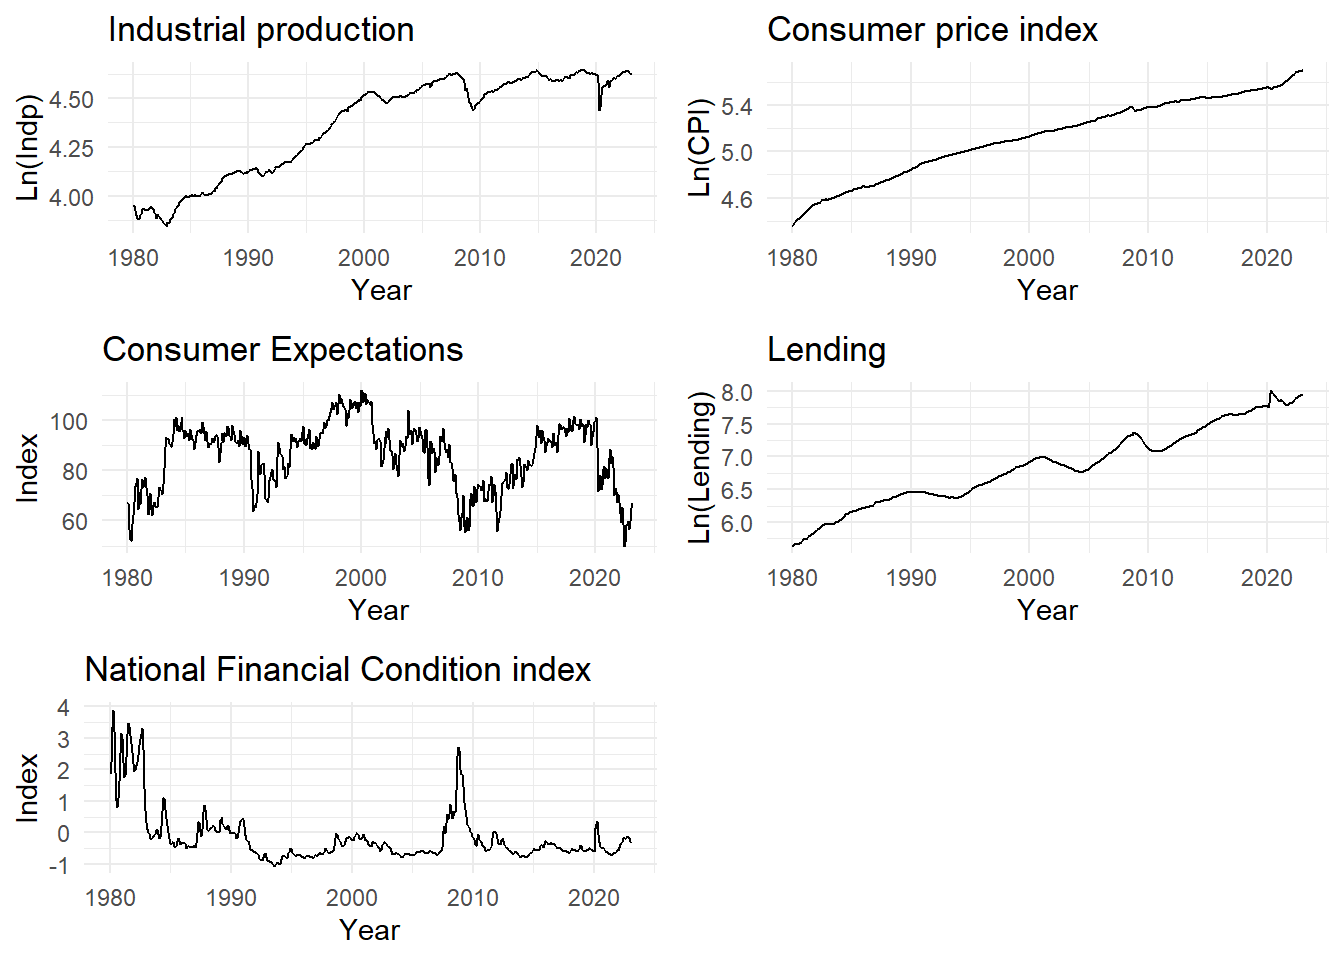
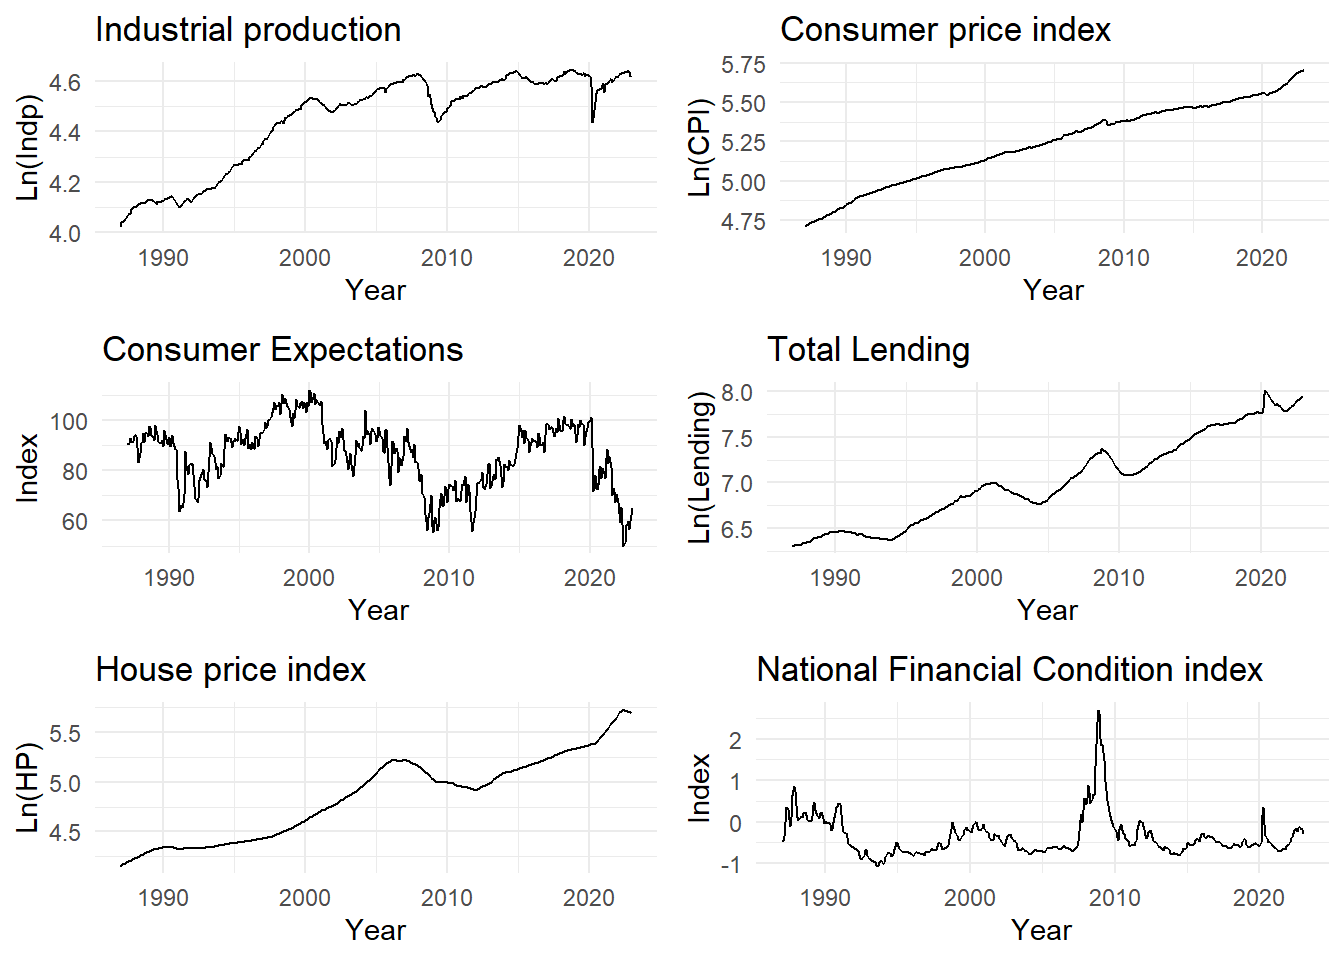
updates
Submission for ASS.1

diff --git a/docs/index.html b/docs/index.html
@@ -130,72 +130,79 @@ ul.task-list li input[type="checkbox"] {
 </blockquote>
 <section id="research-question-motivation" class="level2">
 <h2 class="anchored" data-anchor-id="research-question-motivation">Research question &amp; Motivation</h2>
-<p>As the financial crises emerged in 2008, the world economy realized just how much financial conditions affects the real economy. This research project intends to quantify the effects of a tightening of financial conditions on the real economy.</p>
-<p>The objective question to be answered can thus be summarized as follows; Does a tightening of financial conditions have the anticipated effects on the real economy, and if so, what are the magnitudes reasonable.</p>
+<p>As the financial crises emerged in 2008, the world economy realized just how much financial conditions affected the real economy. This research project intends to quantify the effects of a tightening of financial conditions on the real economy.</p>
+<p>The objective question to be answered can thus be summarized as follows; Does a tightening of financial conditions have the anticipated effects on the real economy, and if so, what are the magnitudes.</p>
 <p><strong>What motivates this?</strong></p>
-<p>It is or rather has been a standard part of macroeconomic modelling to exclude the financial sector from applied theoretical modelling. This has been a popular choice of researchers, who has argued that there is no or at least negligible relationship between financial and real variables. Nevertheless, financial crisis are often followed by significant drops in consumption and production, which might be a result of lower consumer sentiment, affecting the overall demand for goods as well as savings. It is therefore of importance for various policy makers to apply these insight when forming the economic policy as tighter monetary and/or macroprudential stances might have some undesired outcomes.</p>
-<p>Furthermore, the research question is highly applicable in today’s economic climate as central banks has started raising rates world wide, the financial condition index enables us to get a complete view of the affects that this might have by looking at financial markets, credit and liquidity while including the shadow banking system. The analysis is somewhat inspired by Pedersen and Roager (2019), who finds that easing financial conditions had a positive impact on the danish economy using quarterly data. In this paper monthly data is used in order to estimate the model on a higher frequency enabling policy makers to gain insights of the current state of the economy.</p>
+<p>It is, or rather has been a standard part of macroeconomic modelling to exclude the financial sector from applied theoretical modelling. This has been a popular choice of researchers, who have argued that there is no or at least a negligible relationship between financial and real variables. Nevertheless, financial crisis are often followed by significant drops in consumption and production, as evident from the figure of the respective series in the forthcoming section. This might be a result of lower consumer sentiment, which possibly through a wealth channel, affects the overall demand for goods as well as savings. Thus, getting a thorough understanding of the effect of financial conditions on the real economy is of importance for policy makers, who should take these insights into account when tightening the financial conditions through tighter monetary and/or macroprudential, as they might have some undesired outcomes.</p>
+<p>Furthermore, the research question is highly applicable in today’s economic climate. As central banks have started raising rates world wide, the financial condition index enables us to get a complete view of the affects that this might have by looking at financial markets, credit and liquidity while including the shadow banking system. The analysis is somewhat inspired by Pedersen and Roager (2019), who finds that easing financial conditions had a positive impact on the danish economy using quarterly data.</p>
 </section>
 <section id="data-and-its-properties" class="level2">
 <h2 class="anchored" data-anchor-id="data-and-its-properties">Data and its properties</h2>
-<p>As financial variables in general are fast moving compared to real economic variables, one obstacle was to find economic variables, which was able to mimic the effects on the real economy although on a higher frequency.</p>
-<p>The economic variables used for the empirical analysis are as follows:</p>
-<p>The economic activity is modeled by the <strong>industrial production</strong> which is an approximate variable mimicing the movements in Gross Domestic Product (GDP). Furthermore, as the United States are considered a closed economy, industrial production is considered sufficient.</p>
-<p>Additionally, the overall <strong>consumer price index</strong> has been introduced to the model as well, as financial conditions might affect the inflation through various expectations.</p>
-<p>In order to directly link the movements in the financial condition index and the real economy total <strong>lending</strong> from commercial banks is applied.</p>
-<p>As aforementioned, one could hypothesize that the effect which financial conditions has on the real economy was through consumer expectations. Therefore, the model includes <strong>consumer sentiment</strong> provided by University of Michigan.</p>
+<p>As mentioned in the prior section the results of the structural analysis should be of immediate use for economic policy makers, and thus a high frequency is of importance. The model will therefore be estimated using monthly data for the economy of the United States.</p>
+<p>The economic variables used for the empirical analysis are given by:</p>
+<p>The economic activity, and thus a measure of the real economy, is modeled by <strong>industrial production</strong> which is an approximate variable mimicking the movements in Gross Domestic Product (GDP). Industrial production is often used as a measure for real economic activity, and is in particular considered sufficient for economies with a large manufacturing sector.</p>
+<p>Additionally, the <strong>consumer price index (CPI)</strong> has been introduced to the model as well. The price level is included as financial conditions might affect the price level. Furthermore, given the mandates of the Federal Reserve (Fed), it is of importance getting an understanding of the relation between these variables.</p>
+<p>In order to directly link the movements in the financial condition index and the real economy, total <strong>lending</strong> from commercial banks is applied. This is due to the fact that as financial conditions are possibly tightened through monetary or financial regulatory authorities, it might become harder to obtain a loan for households as well as firms, which might impact the economic activity, as evident from the financial crisis in 2008.</p>
+<p>Additionally, as it is common to have a large amount of your wealth in real estate, S&amp;P U.S. National Home Price Index has been included. The behavior of the real estate prices might especially have an impact in consumer sentiment possibly through the aforementioned wealth channel, which could then affect the real economy through lower demand for goods or a higher demand for savings. The model therefore includes <strong>consumer sentiment</strong> provided by University of Michigan. The variables of consumer sentiment will be denoted consumer expectations throughout the analysis.</p>
 <p>Lastly, as we are interested in identifying a shock to financial conditions, the <strong>National Financial Condition Index (NFCI)</strong> is included. The index is constructed by the Federal Reserve, Chicago and is a measure of the conditions of finance, taking financial markets, credit and liquidity and the shadow banking system into account.</p>
-<p>The time series are retrieved using the database of Fred, Economic data provided by the Federal Reserve Bank og St.Louis, and is available on a monthly basis. The time period considered is from 01.01.1980 - 01.02.2023. The data is obtained using package <strong>fredr()</strong>.</p>
+<p>The time series are retrieved using Fred, the Economic database provided by the Federal Reserve Bank og St.Louis. The time period considered is from 01.01.1987 - 01.01.2023. The data is obtained using package <strong>fredr()</strong>.</p>
 <div class="cell">
 
 </div>
 <div class="cell">
 
 </div>
-<p><strong>Proterties of the data</strong></p>
-<p>The five time series are presented in the figure below All variables except the two indexes are transformed taking the logarithm.</p>
-<p>The industrial production, consumer price index and the overall lending seems to follow an upward trend, although significant event such as the great financial crisis of 2008 and the outbreak of Covid-19 have had significant impact on the short term movements. Looking closer at the to indices, they seem to be somewhat negatively correlated, indicating that the aforementioned hypothesis of NFCI affecting consumer expectations might be somewhat visually present. The variables seems to be I(1)-processes.</p>
+<p><strong>Preliminary data analysis</strong></p>
+<p>The six time series are presented in the figure below. All variables, except the two indexes, are transformed using the logarithm.</p>
+<p>The industrial production, consumer price index, the house price index and overall lending seems to follow an upward trend. Nevertheless, significant events such as the great financial crisis of 2008 and the outbreak of Covid-19 have had significant impact on the short term movements in the respective series. Looking closer at the two indices, they seem to be somewhat negatively correlated, indicating that the aforementioned hypothesis of NFCI affecting consumer sentiment might be somewhat visually present.</p>
 <div class="cell">
 <div class="cell-output-display">
 <p><img src="index_files/figure-html/showing plot-1.png" class="img-fluid" width="672"></p>
 </div>
 </div>
-<p>In order to statistically determine the stationarity of the variables the auto correlation functions and an Augmented Dicky Fuller test is conducted. Looking at the Autocorrelation functions they indicate, that the variables, except the indices are unit roots, as the ACFs decays slowly, however, although the two indices seem somewhat stationary, their ACF indicates that they might be close to unit root.</p>
+<p>In order to get deeper understanding of the order of integration of the time series, the Autocorrelation function has been plottet in the graph below. The plot indicates, that the series are highly auto correlated, thus indicating a univariate parameter value close to unity implying a high degree of memory.</p>
 <div class="cell">
 <div class="cell-output-display">
 <p><img src="index_files/figure-html/showing acf plot-1.png" class="img-fluid" width="672"></p>
 </div>
 </div>
-<p>Looking at the test results presented in the table below, we see we cannot reject the null hypothesis of the variables being I(1) for the variables except lending and NFCI, nevertheless the test vary quite a when changing the lag parameter, and thus in combination with the plots and ACFs of the variables, we continue assuming that all variables are I(1)</p>
+<p>In order to examine the order of integration, an Augmented Dicky Fuller test is conducted using function <strong>adf()</strong>. The test statistically tests for the existence of a unit root in the time series univariatly. The results can be found in the table below.</p>
 <div class="cell">
 
 </div>
 <div class="cell">
 <div class="cell-output cell-output-stdout">
 <pre><code>                      Test statistic P-value Lags
-Industrial Production         -1.422   0.823   12
-Consumer Price Index          -2.658   0.300   12
-Consumer Expectation          -2.663   0.297   12
-Lending                       -3.620   0.031   12
-NFCI                          -3.454   0.047   12</code></pre>
+Industrial Production         -1.599   0.747   12
+Consumer Price Index          -2.788   0.245   12
+Consumer Expectations         -2.139   0.519   12
+Total Lending                 -3.295   0.072   12
+House price index             -3.048   0.135   12
+NFCI                          -3.320   0.067   12</code></pre>
 </div>
 </div>
+<p>As evident from the table we are not able to reject the null hypothesis of the presence of a unit root in any of the time series at a 5 pct. level of significance, and thus not able to reject the hypothesis of the variables being integrated of order 1.</p>
+<p>The order of integration is of particular interest when doing structural analysis, given that the shocks to stationary processes can be considered temporary, while shocks to I(1)-processes can be considered permanent given that random walk processes has a high degree of memory from past shocks. Thus, as the variables are I(1)-processes, all shocks can be considered permanent.</p>
 </section>
 <section id="econometric-model-and-hypothesis" class="level2">
 <h2 class="anchored" data-anchor-id="econometric-model-and-hypothesis">Econometric model and hypothesis</h2>
 <p>In order to determine the effect of a tightening of financial conditions to the real economy one could apply a structural vector autoregressive model (SVAR), which enables an identification of that exact shock. A general version of the SVAR with q-lags is presented below: <span class="math display">\[\begin{gather}
         B_0y_t=c_0+B_1y_{t-1}+B_2y_{t-2}+...+B_qy_{t-q}+\varepsilon_t,
-\end{gather}\]</span> where <span class="math inline">\(y_t\)</span> is a <span class="math inline">\(K \times 1\)</span> matrix, <span class="math inline">\(B_i\)</span> is a <span class="math inline">\(K \times K\)</span> and <span class="math inline">\(c\)</span> and <span class="math inline">\(\varepsilon_t\)</span> are <span class="math inline">\(K \times 1\)</span> matrices where <span class="math inline">\(K= \text{number of variables}\)</span>. The <span class="math inline">\(B_0\)</span> is known as the structural matrix, which includes contemporaneous relationships, and <span class="math inline">\(\varepsilon_t\)</span> contains, conditionally on <span class="math inline">\(Y_{t-1}\)</span> orthogonal shocks with <span class="math inline">\(\varepsilon_t \sim iid(0_K,I_K)\)</span>. Pre-multiplying the model with <span class="math inline">\(B_0^{-1}\)</span>, rotating the model from the structural form to the reduced form. We can rewrite the SVAR to the following expression<br>
+\end{gather}\]</span> where <span class="math inline">\(y_t\)</span> is a <span class="math inline">\(K \times 1\)</span> matrix containing the variables outlined in section “Data and its properties”, <span class="math inline">\(B_i\)</span> is a <span class="math inline">\(K \times K\)</span> and <span class="math inline">\(c\)</span> and <span class="math inline">\(\varepsilon_t\)</span> are <span class="math inline">\(K \times 1\)</span> matrices where <span class="math inline">\(K= \text{number of variables}\)</span>. The <span class="math inline">\(B_0\)</span> is known as the structural matrix, containing contemporaneous relationships. <span class="math inline">\(\varepsilon_t\)</span> conditionally on <span class="math inline">\(Y_{t-1}\)</span> contains the orthogonal shocks with <span class="math inline">\(\varepsilon_t \sim iid(0_K,I_K)\)</span>.</p>
+<p>For convenience researchers often consider the reduced form of the Structural model. Pre-multiplying the model with <span class="math inline">\(B_0^{-1}\)</span>, rotating the model from the structural form to the reduced form. The model can be written as:<br>
 <span class="math display">\[\begin{gather} \label{svar}
     y_t=\mu+A_1y_{t-1}+A_2y_{t-2}+...+A_qy_{t-q}+u_t,
 \end{gather}\]</span> where <span class="math inline">\(A_j=B^{-1}_0B_j\)</span>, <span class="math inline">\(\mu=B_0^{-1}c_0\)</span> and <span class="math inline">\(u_t=B^{-1}_0\varepsilon_t\)</span> and where <span class="math inline">\(u_t|Y_{t-1}\sim iid(0_K,\Sigma)\)</span>, where <span class="math inline">\(\Sigma=B^{-1}_0B^{-1'}_0\)</span>.</p>
-<p>The structure of <span class="math inline">\(B_0^{-1}\)</span> can be imposed by numerous ways, although in order for the model to be identified using exclusion it must be the case, that we impose <span class="math inline">\(K(K-1)/2\)</span> restrictions. In this research paper a cholesky decompostion will be applied thus implying a recursive identification which imposes the <span class="math inline">\(B_0^{-1}\)</span> to be lower triangular.</p>
+<p>The structure of <span class="math inline">\(B_0^{-1}\)</span> can be imposed by numerous ways, although in order for the model to be identified using exclusion it must be the case, that we impose <span class="math inline">\(K(K-1)/2\)</span> restrictions. In this research paper a cholesky decompostion will be applied. This implies a recursive identification which imposes the <span class="math inline">\(B_0^{-1}\)</span> to be lower triangular. The ordering of the variables in <span class="math inline">\(y_t\)</span> is justified using economic theory.</p>
 <p><strong>How to use the structural model and proposed output</strong></p>
-<p>Having estimated the structural model, one could correctly examine the effects to the real economy of a shock to the financial conditions. Using a shock of one standard deviation the Impulse response functions can be computed indicating how the real economy responds to tighter financial conditions. Having imposed the recursive scheme on the model introduced in the prior section would enable us to see if there is a significant response on the real variables and if the causality assumption of the consumer expectations seems justified. Relating the signs of the impulse responses to the aforementioned hypothesis, one would theoretically expect that tighter financial conditions affected the consumer expectations negatively, imposing negative spill-overs to demand and thus production.</p>
-<p>Additionally, in order to get an understanding of the actual effect computing the variance decomposition could be used. Lastly, as the effect of financial conditions might have varied over time a historical decomposition could be used.</p>
+<p>Having estimated the structural model, one could correctly examine the effects to the real economy of a shock to the financial conditions. Using a shock of one standard deviation, the structural Impulse response functions (IRF) can be computed. The impulse responses indicates how the real economy responds to a tightening of financial conditions. Having correctly imposed the recursive scheme on the model introduced in the prior section would enable us to see if there is a significant response on the real variables and additionally if the causality assumption of the consumer expectations, and its effect onto economic variables seems justified statistically.</p>
+<p>Relating the signs of the impulse responses to the aforementioned hypothesis, one would theoretically expect that tighter financial conditions affected the consumer expectations negatively, which would have negative spill-overs to demand and thus production.</p>
+<p>In order to get a better understanding of how much financial conditions affect the variables of interest one could compute a variance decomposition, and given that there at some point in the observed period might have been some kind of paradigm shift, using a historical decomposition can be used to see if the explanatory power of financial conditions onto economic variables has changed over time.</p>
 </section>
 <section id="references" class="level1 unnumbered">
 <h1 class="unnumbered">References</h1>
+<p>Kilian, L., &amp; L¨utkepohl, H. (2017). Structural Vector Autoregressive Analysis. Cambridge University Press.</p>
+<p>Jenser, J., &amp; Pedersen, J. (2019). Macro financial linkages in a SVAR model with application to Denmark, Working paper (no. 134)</p>
 
 
 </section>
